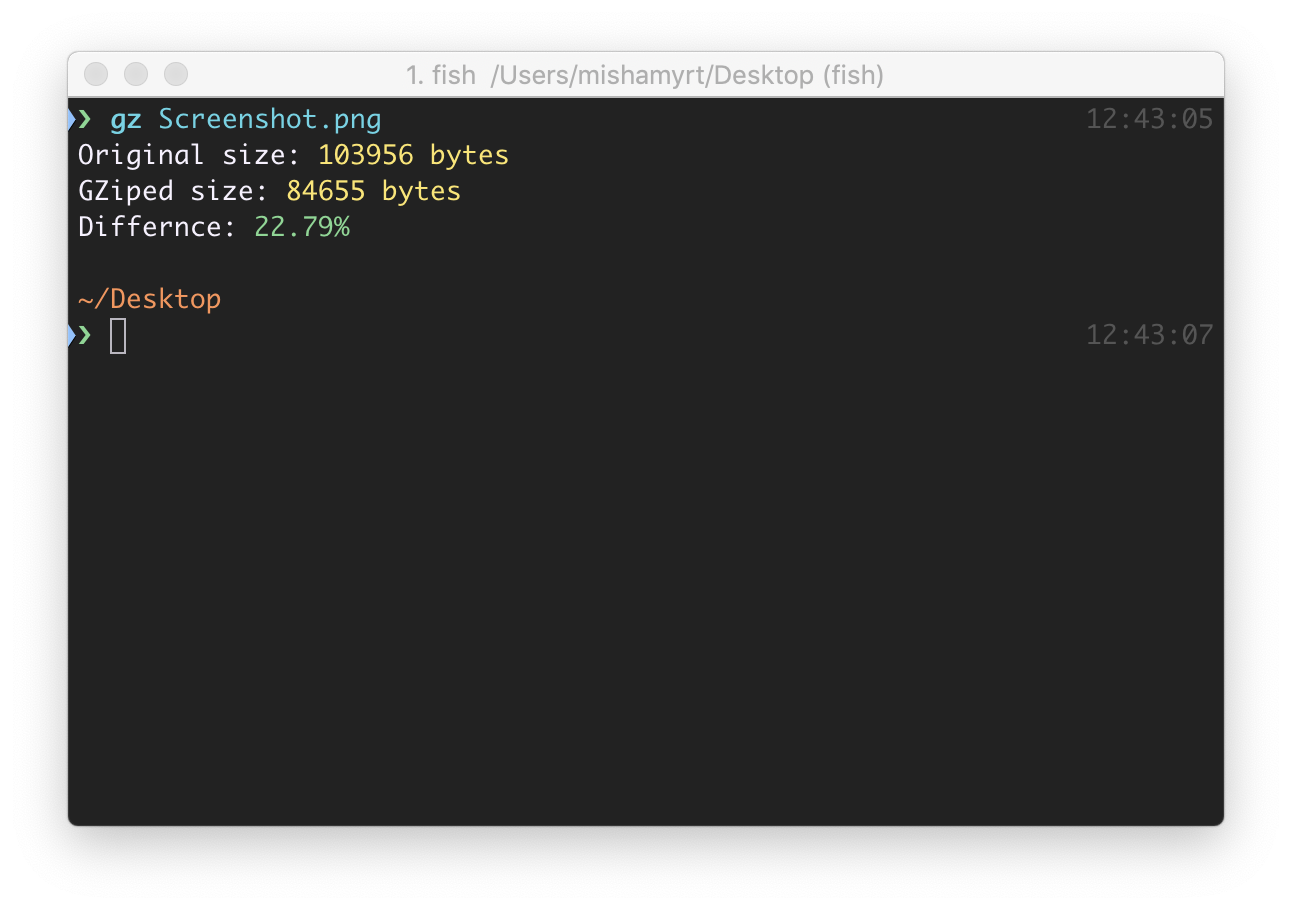
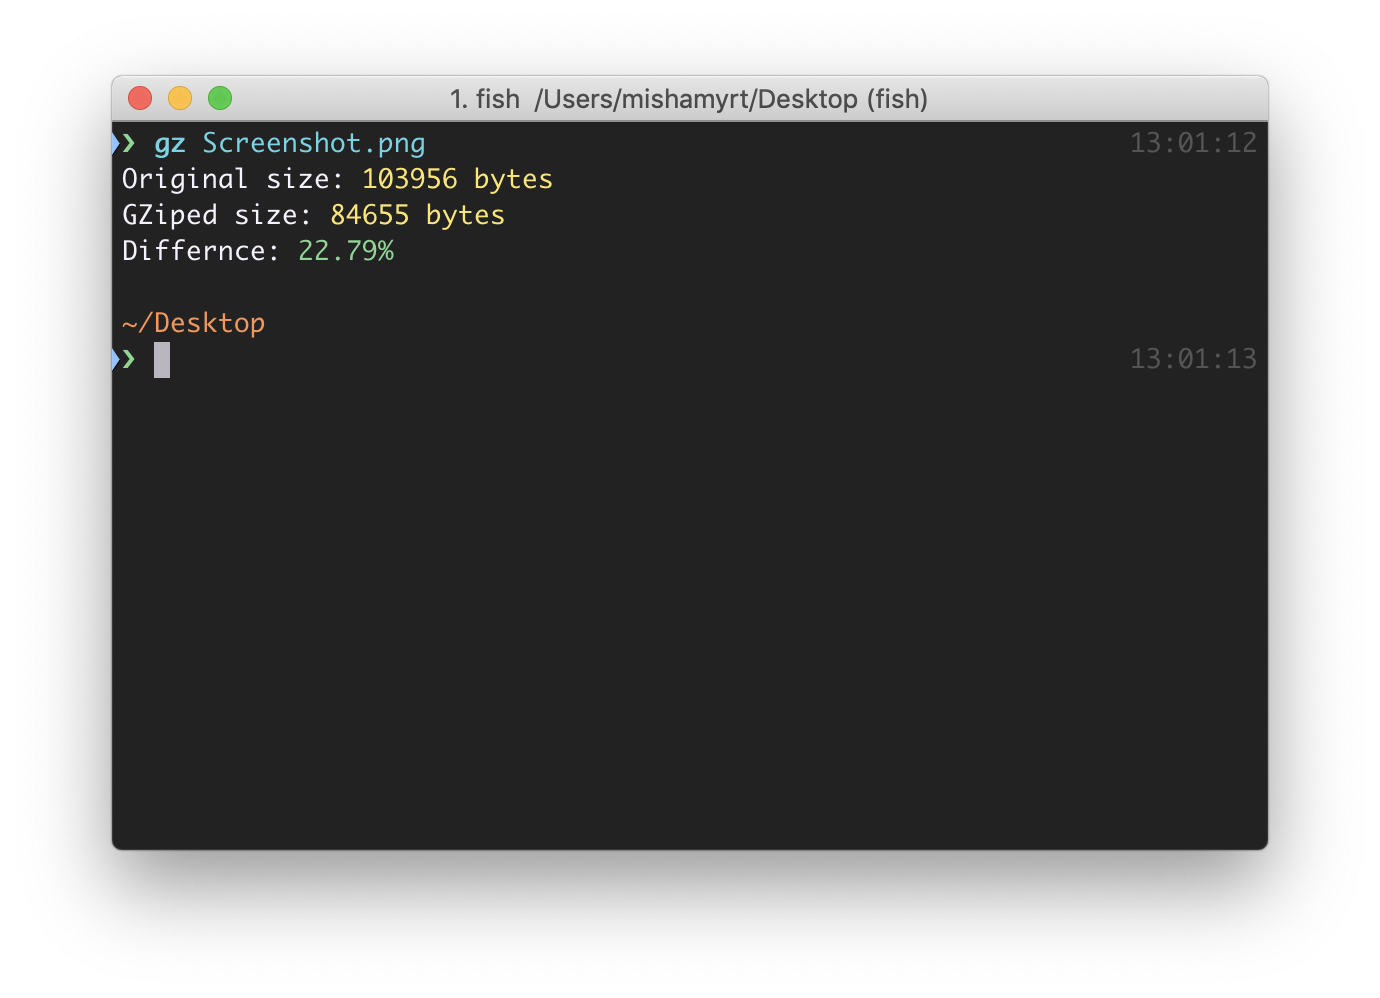
Replaced screenshot, aligned it

Changed region(s): [[0.031, 0.0615, 0.9598, 0.9231]]

diff --git a/README.md b/README.md
@@ -1,7 +1,9 @@
 # GZ
 Tiny script with which you can find out the file size after gzip compression.
 
+<p align="center">
 <img src="./terminal@2x.png" width="646" height="455">
+</p>
 
 ## Usage
 
